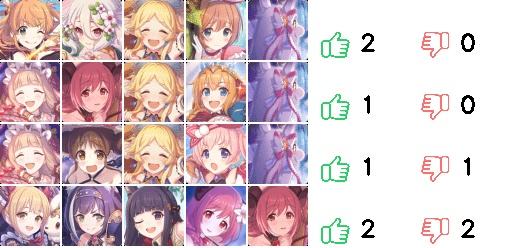
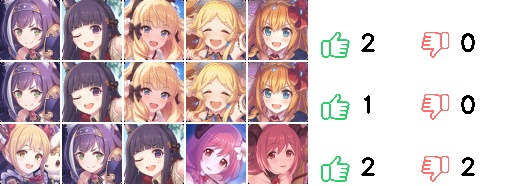
update character id and other

diff --git a/arena.py b/arena.py
@@ -19,7 +19,7 @@ character = {100:'似似花',101:'日和',102:'茉莉',103:'真步',104:'香織'
              170:'亞里莎',171:'嘉夜',172:'優依',173:'克莉絲緹娜',174:'佩可(夏日)',175:'可可羅(夏日)',176:'鈴苺(夏日)',177:'凱留(夏日)',178:'綾音(聖誕節)',179:'真琴(夏日)',1710:'卯月',
              180:'日和(新年)',181:'優依(新年)',182:'怜(新年)',183:'惠理子(情人節)',184:'靜流(情人節)',185:'安',186:'露',187:'古蕾婭',188:'空花(大江戶)',189:'香織(夏日)',1810:'凜',
              190:'真步(夏日)',191:'碧(插班生)',192:'克羅伊',193:'琪愛兒',194:'優妮',195:'鏡華(萬聖節)',196:'禊(萬聖節)',197:'美美(萬聖節)',198:'露娜',199:'克(聖誕節)',1910:'本田',
-             1100:'鈴(巡者)',1101:'真陽(遊俠)',1102:'璃乃(奇幻)',1103:'步未(幻境)',1104:'佩可(公主型態)',1105:'可可羅(公主型態)',1106:'祈梨',1107:'優依(公主型態)',1108:'杏奈(夏日)',
+             11000:'鈴(巡者)',11001:'真陽(遊俠)',11002:'璃乃(奇幻)',11003:'步未(幻境)',11004:'佩可(公主型態)',11005:'可可羅(公主型態)',11006:'祈梨',11007:'優依(公主型態)',11008:'杏奈(夏日)',
              300:'優花梨(六星)',301:'日和(六星)',302:'璃乃(六星)',303:'美冬(六星)',
              310:'怜(六星)',311:'真布(六星)',312:'初音(六星)',313:'莉瑪(六星)',
              320:'伊緒(六星)',321:'優依(六星)',322:'朱希(六星)',323:'佩可(六星)',
@@ -50,7 +50,11 @@ def get_id(img):
         index = str(index+1)
     else:
         index = str(index)
-    id = int(index + row + column)
+    
+    if row == '10':
+        id = int(index + row + '0' + column)
+    else:
+        id = int(index + row + column)
     return id
 
 
@@ -265,7 +269,7 @@ def confirm_record_success(our, enemy, mode):
             test1 = count_our.most_common()
             for i in range(len(our)):
                 character[our[i]]
-                # print(character[our[i]])
+                print(character[our[i]])
                 if test1[i][1] > 1:
                     return False
 
@@ -275,7 +279,8 @@ def confirm_record_success(our, enemy, mode):
         test2 = count_enemy.most_common()
         for i in range(len(enemy)):
             character[enemy[i]]
-            # print(character[enemy[i]])
+            print(character[enemy[i]])
+            print(enemy[i])
             if test2[i][1] > 1:
                 return False
 
@@ -296,7 +301,9 @@ def create_record_img(record, good, bad):
         for j in range(len(record[0])):
             icon = record[i][j]
             division = 0
-            if icon > 1000:
+            if icon > 10000:
+                division = 10000
+            elif icon > 1000:
                 division = 1000
             else:
                 division = 100
@@ -304,7 +311,10 @@ def create_record_img(record, good, bad):
             index = int(icon/division)-1
             # print('index=%d' %(index))
             icon %= division
-            division = int(division/10)
+            if division == 10000:
+                division = int(division/100)
+            else:
+                division = int(division/10)
             pic_row = int(icon/division)*62
             pic_col = int(icon%division)*62
             charas = cv2.imread(charas_all[index])

diff --git a/app.py b/app.py
@@ -215,5 +215,7 @@ def handle_message(event):
 
 
 if __name__ == "__main__":
-    port = int(os.environ.get('PORT', 5000))
-    app.run(host='0.0.0.0', port=port)
+    # port = int(os.environ.get('PORT', 5000))
+    # app.run(host='0.0.0.0', port=port)
+    app.debug = True
+    app.run()
